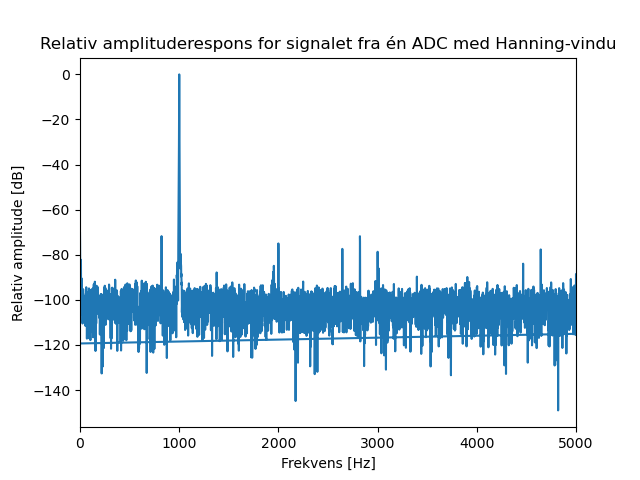
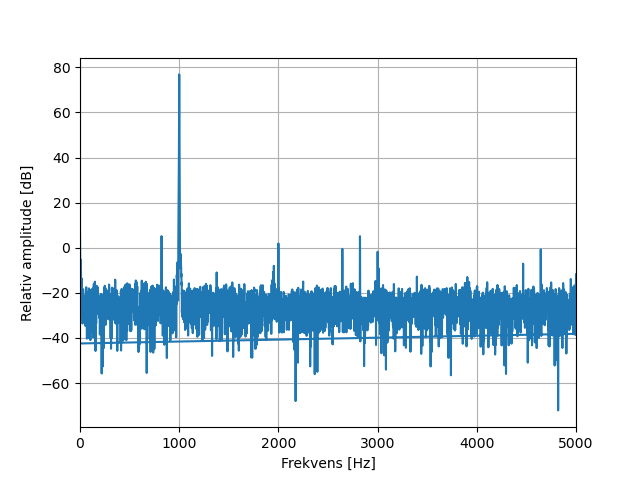
Masse arbeid torsdag 15.feb

diff --git a/Lab2/cross-correlation-processing.py b/Lab2/cross-correlation-processing.py
@@ -12,7 +12,7 @@ def return_angle(filename):
 
 
     #new time axis for the autocorrelation
-    up_factor = 8
+    up_factor = 2
     x_vals = np.linspace(-len(mic_1_ac)/2,len(mic_1_ac)/2,len(mic_1_ac)*up_factor)
     x_in = np.linspace(-len(mic_1_ac)/2,len(mic_1_ac)/2,len(mic_1_ac))
 
@@ -31,7 +31,7 @@ def return_angle(filename):
     time_axis2 = 1e3*sample_period*np.linspace(-len(data)/2,len(data)/2,len(crosscorr_2_1))
 
     #slice cross-correlation to only look at the peaks around 0
-    slice = 40
+    slice = 15
     crosscorr_2_1 = crosscorr_2_1[int(len(crosscorr_2_1)/2)-slice:int(len(crosscorr_2_1)/2)+slice]
     crosscorr_3_1 = crosscorr_3_1[int(len(crosscorr_3_1)/2)-slice:int(len(crosscorr_3_1)/2)+slice]
     crosscorr_3_2 = crosscorr_3_2[int(len(crosscorr_3_2)/2)-slice:int(len(crosscorr_3_2)/2)+slice]
@@ -41,34 +41,34 @@ def return_angle(filename):
     peaks3_1, _ = find_peaks(crosscorr_3_1)
     peaks3_2, _ = find_peaks(crosscorr_3_2)
 
-    # plt.plot(time_axis2,crosscorr_2_1)
-    # plt.plot(time_axis2[peaks2_1],crosscorr_2_1[peaks2_1],'ro')
-    # plt.show()
+    plt.plot(time_axis2,crosscorr_2_1)
+    plt.plot(time_axis2[peaks2_1],crosscorr_2_1[peaks2_1],'ro')
+    plt.show()
 
-    # fig, ax = plt.subplots(3,1)
-    # ax[0].plot(time_axis2,crosscorr_2_1)
-    # ax[0].plot(time_axis2[peaks2_1],crosscorr_2_1[peaks2_1],'ro')
-    # ax[0].set_title('Cross-correlation between Mic 2 and Mic 1')
-    # ax[0].set_xlabel('Time [ms]')
-    # ax[0].set_ylabel('Amplitude')
-    # ax[0].set_xlim([-slice*sample_period*1e3,slice*sample_period*1e3])
+    fig, ax = plt.subplots(3,1)
+    ax[0].plot(time_axis2,crosscorr_2_1)
+    ax[0].plot(time_axis2[peaks2_1],crosscorr_2_1[peaks2_1],'ro')
+    ax[0].set_title('Cross-correlation between Mic 2 and Mic 1')
+    ax[0].set_xlabel('Time [ms]')
+    ax[0].set_ylabel('Amplitude')
+    ax[0].set_xlim([-slice*sample_period*1e3,slice*sample_period*1e3])
 
-    # ax[1].plot(time_axis2,crosscorr_3_1)
-    # ax[1].plot(time_axis2[peaks3_1],crosscorr_3_1[peaks3_1],'ro')
-    # ax[1].set_title('Cross-correlation between Mic 3 and Mic 1')
-    # ax[1].set_xlabel('Time [ms]')
-    # ax[1].set_ylabel('Amplitude')
-    # ax[1].set_xlim([-slice*sample_period*1e3,slice*sample_period*1e3])
+    ax[1].plot(time_axis2,crosscorr_3_1)
+    ax[1].plot(time_axis2[peaks3_1],crosscorr_3_1[peaks3_1],'ro')
+    ax[1].set_title('Cross-correlation between Mic 3 and Mic 1')
+    ax[1].set_xlabel('Time [ms]')
+    ax[1].set_ylabel('Amplitude')
+    ax[1].set_xlim([-slice*sample_period*1e3,slice*sample_period*1e3])
 
-    # ax[2].plot(time_axis2,crosscorr_3_2)
-    # ax[2].plot(time_axis2[peaks3_2],crosscorr_3_2[peaks3_2],'ro')
-    # ax[2].set_title('Cross-correlation between Mic 3 and Mic 2')
-    # ax[2].set_xlabel('Time [ms]')
-    # ax[2].set_ylabel('Amplitude')
-    # ax[2].set_xlim([-slice*sample_period*1e3,slice*sample_period*1e3])
+    ax[2].plot(time_axis2,crosscorr_3_2)
+    ax[2].plot(time_axis2[peaks3_2],crosscorr_3_2[peaks3_2],'ro')
+    ax[2].set_title('Cross-correlation between Mic 3 and Mic 2')
+    ax[2].set_xlabel('Time [ms]')
+    ax[2].set_ylabel('Amplitude')
+    ax[2].set_xlim([-slice*sample_period*1e3,slice*sample_period*1e3])
 
-    # plt.tight_layout()
-    # plt.show()
+    plt.tight_layout()
+    plt.show()
 
     #find values of the peaks
     time_2_1 = time_axis2[peaks2_1]
@@ -95,21 +95,21 @@ def return_angle(filename):
 
 angles = []
 angles.append(return_angle('Lab2/theta-measurements/a180out-2024-01-08-10.00.29.bin'))
-# angles.append(return_angle('Lab2/theta-measurements/a180out-2024-01-08-10.00.25.bin'))
-# angles.append(return_angle('Lab2/theta-measurements/a180out-2024-01-08-10.00.21.bin'))
-# angles.append(return_angle('Lab2/theta-measurements/a180out-2024-01-08-10.00.17.bin'))
-# angles.append(return_angle('Lab2/theta-measurements/a180out-2024-01-08-10.00.14.bin'))
-angles.append(return_angle('Lab2/theta-measurements/a150out-2024-01-08-09.58.47.bin'))
+angles.append(return_angle('Lab2/theta-measurements/a180out-2024-01-08-10.00.25.bin'))
+angles.append(return_angle('Lab2/theta-measurements/a180out-2024-01-08-10.00.21.bin'))
+angles.append(return_angle('Lab2/theta-measurements/a180out-2024-01-08-10.00.17.bin'))
+angles.append(return_angle('Lab2/theta-measurements/a180out-2024-01-08-10.00.14.bin'))
+# angles.append(return_angle('Lab2/theta-measurements/a150out-2024-01-08-09.58.47.bin'))
 # angles.append(return_angle('Lab2/theta-measurements/a150out-2024-01-08-09.58.44.bin'))
 # angles.append(return_angle('Lab2/theta-measurements/a150out-2024-01-08-09.58.40.bin'))
 # angles.append(return_angle('Lab2/theta-measurements/a150out-2024-01-08-09.58.36.bin'))
 # angles.append(return_angle('Lab2/theta-measurements/a150out-2024-01-08-09.58.33.bin'))
-angles.append(return_angle('Lab2/theta-measurements/a90out-2024-01-08-09.57.28.bin'))
+# angles.append(return_angle('Lab2/theta-measurements/a90out-2024-01-08-09.57.28.bin'))
 # angles.append(return_angle('Lab2/theta-measurements/a90out-2024-01-08-09.57.24.bin'))
 # angles.append(return_angle('Lab2/theta-measurements/a90out-2024-01-08-09.57.21.bin'))
 # angles.append(return_angle('Lab2/theta-measurements/a90out-2024-01-08-09.57.13.bin'))
 # angles.append(return_angle('Lab2/theta-measurements/a90out-2024-01-08-09.57.13.bin'))
-angles.append(return_angle('Lab2/theta-measurements/a30out-2024-01-08-09.56.26.bin'))
+# angles.append(return_angle('Lab2/theta-measurements/a30out-2024-01-08-09.56.26.bin'))
 # angles.append(return_angle('Lab2/theta-measurements/a30out-2024-01-08-09.56.22.bin'))
 # angles.append(return_angle('Lab2/theta-measurements/a30out-2024-01-08-09.56.19.bin'))
 # angles.append(return_angle('Lab2/theta-measurements/a30out-2024-01-08-09.56.16.bin'))

diff --git a/LAB1/simple-data-plotter.py b/LAB1/simple-data-plotter.py
@@ -17,18 +17,19 @@ adc_5_ac = (data[:,4] - np.mean(data[:,4]))*res_factor
 
 
 time_axis = 1e3*sample_period*np.arange(len(adc_1_ac))
-# plt.plot(time_axis,adc_1_ac, label='ADC 1')
-# plt.plot(time_axis,adc_2_ac, label='ADC 2')
-# plt.plot(time_axis,adc_3_ac, label='ADC 3')
-# plt.plot(time_axis,adc_4_ac, label='ADC 4')
-# plt.plot(time_axis,adc_5_ac, label='ADC 5')
-# plt.xlabel('Tid [ms]')
-# plt.ylabel('Spenning [V]')
+plt.plot(time_axis,adc_1_ac, label='ADC 1')
+plt.plot(time_axis,adc_2_ac, label='ADC 2')
+plt.plot(time_axis,adc_3_ac, label='ADC 3')
+plt.plot(time_axis,adc_4_ac, label='ADC 4')
+plt.plot(time_axis,adc_5_ac, label='ADC 5')
+plt.xlabel('Tid [ms]')
+plt.ylabel('Spenning [V]')
 # plt.title('Spenning som funksjon av tid for de fem ADCene')
-# plt.legend()
-# plt.xlim(20,25)
-# plt.ylim(-1.5,1.5)
-# plt.show()
+plt.legend()
+plt.grid()
+plt.xlim(20,25)
+plt.ylim(-1.5,1.5)
+plt.show()
 
 
 # print(data.shape)
@@ -46,13 +47,14 @@ Y_dB = relative_Y - np.max(relative_Y)
 
 
 # plt.yscale('log')
-# plt.plot(freqs,Y_dB)
-# plt.xlabel('Frekvens [Hz]')
-# plt.ylabel('Relativ amplitude [dB]')
+plt.plot(freqs,Y_dB)
+plt.xlabel('Frekvens [Hz]')
+plt.ylabel('Relativ amplitude [dB]')
 # plt.title('Relativ amplituderespons for signalet fra én ADC uten vindu')
-# plt.xlim(0,5000)
-# plt.ylim(-100,5)
-# plt.show()
+plt.xlim(0,5000)
+plt.ylim(-100,5)
+plt.grid()
+plt.show()
 
 
 #windowed function fft
@@ -69,19 +71,20 @@ Y_windowed_dB = rel_Y_wind - np.max(rel_Y_wind)
 # positive_Y_windowed = abs(Y_windowed)[:len(Y_windowed)//2]
 
 # plt.yscale('log')
-# plt.plot(freqs_windowed, Y_windowed_dB)
+plt.plot(freqs_windowed, rel_Y_wind)
 # plt.title('Relativ amplituderespons for signalet fra én ADC med Hanning-vindu')
-# plt.xlabel('Frekvens [Hz]')
-# plt.ylabel('Relativ amplitude [dB]')
-# plt.xlim(0,5000)
-# plt.show()
+plt.xlabel('Frekvens [Hz]')
+plt.ylabel('Relativ amplitude [dB]')
+plt.xlim(0,5000)
+plt.grid()
+plt.show()
 
 #Power plot
 power = abs(Y_windowed)**2
 rel_pow = 10*np.log10(power)
 
 plt.plot(freqs_windowed,power)
-plt.title('Effektspekter for signalet fra én ADC med Hanning-vindu')
+# plt.title('Effektspekter for signalet fra én ADC med Hanning-vindu')
 plt.xlabel('Frekvens [Hz]')
 plt.ylabel('Effekt [V^2]')
 plt.xlim(0,5000)

diff --git a/LAB1/plotter.py b/LAB1/plotter.py
@@ -350,7 +350,38 @@ def scopeGraph(dataList, datalabel,col, col2=-1):
 #phase(dataList, dataLabel,2)
 plt.rcParams.update({'font.size': 16})
 
+#Plotting theoretical bode diagram from the frequency response of the filter.
+def theoretical_bode_plot(R,C,L):
+  freqs = np.linspace(0.1,10000,100000)
+  R_2 = 6.6+11
+  L = 403e-3
+  # C_1 = 520e-6
+  C_2 = 470.1e-6
+  def freq_resp(R,C,L,freqs):
+    return np.abs(1/(1-(2*np.pi*freqs)**2*C*L+1j*(2*np.pi*freqs)*R*C))
 
+  #cut-off frequency
+  w_c = np.sqrt((np.sqrt(C_2**2 *R_2**4 - 4*C_2*L *R_2**2 + 8*L**2) - C_2* R_2**2 + 2* L)/(C_2* L**2))/np.sqrt(2)
+  f_c = w_c/(2*np.pi)
+  amp_resp = abs(freq_resp(R,C,L,freqs))
+
+  fig, ax = plt.subplots(1,figsize=(10,10))
+  ax.set_xscale('log')
+  ax.plot(freqs,20*np.log10(amp_resp))
+  #-3dB line
+  print(f_c)
+  ax.axhline(y=-3,color='red',linestyle='--')
+  #cut-off frequency
+  ax.axvline(x=f_c,color='red',linestyle='--',label=f'f_c = {f_c:.2f} Hz')
+  ax.set_title(f"Frekvensrespons av pi-filteret")
+  ax.set_xlabel("Frekvens [Hz]")
+  ax.set_ylabel("Relativ amplitude [dB]")
+  ax.legend()
+  ax.grid()
+  plt.show()
+  fig.savefig('bode_theoretical.png')
+
+theoretical_bode_plot(15,470.1e-6,403e-3)
 
 #bodefiles = ["bode/3V3filter_bode_v1.csv", "bode/3V3filter_bode_v2_11ohm_series.csv","bode/3V3filter_bode_v2_17ohm_series.csv","bode\3V3filter_bode_v2_33ohm_series.csv","bode/3V3filter_bode_v2_100ohm_series.csv","bode/3V3filter_bode_v2.csv"]
 #bodefiles = ["bode/3V3filter_bode_v1.csv","bode/3V3filter_bode_v2_11ohm_series.csv","bode/3V3filter_bode_v2_17ohm_series.csv","bode/3V3filter_bode_v2_100ohm_series.csv","bode/3V3filter_bode_v2.csv"]
@@ -360,7 +391,7 @@ dataLabel = ["3V3filter_v1","3V3filter_v2_11ohm_series","3V3filter_v2_17ohm_seri
 
 bodeDiagram(bodefiles, dataLabel)
 
-bodefiles = ["bode\filter3V3_bode_v3_11ohm_series.csv","bode\filter3V3_bode_v4_11ohm_series.csv"]
+bodefiles = ["bode/filter3V3_bode_v3_11ohm_series.csv","bode/filter3V3_bode_v4_11ohm_series.csv"]
 dataLabel = ["filter3V3_v3_11ohm_series","filter3V3_v4_11ohm_series"]
 
 bodeDiagram(bodefiles, dataLabel)

diff --git a/Lab2/savefile.py b/Lab2/savefile.py
@@ -16,11 +16,11 @@ mic_2_ac = (data[1:,2] - np.mean(data[:,2]))*0.00081
 
 
 time_axis = 1e3*sample_period*np.arange(len(data)-1)
-# plt.plot(time_axis,mic_1_ac,label='Mic 1')
-# plt.plot(time_axis,mic_2_ac,label='Mic 2')
-# plt.plot(time_axis,mic_3_ac,label='Mic 3')
-# plt.legend()
-# plt.show()
+plt.plot(time_axis,mic_1_ac,label='Mic 1')
+plt.plot(time_axis,mic_2_ac,label='Mic 2')
+plt.plot(time_axis,mic_3_ac,label='Mic 3')
+plt.legend()
+plt.show()
 
 #new time axis for the autocorrelation
 
@@ -40,7 +40,7 @@ mic_3_interp = np.interp(x_vals,x_in,mic_3_ac)
 # plt.grid()
 # plt.show()
 
-# auto_corr_1 = np.correlate(mic_1_interp,mic_1_interp,mode='same')
+auto_corr_1 = np.correlate(mic_1_interp,mic_1_interp,mode='same')
 
 
 # plt.plot(time_axis2,auto_corr_1)

diff --git a/LAB1/freq_resp_laboppgave.py b/LAB1/freq_resp_laboppgave.py
@@ -2,18 +2,13 @@ import numpy as np
 from scipy.signal import freqs
 import matplotlib.pyplot as plt
 
-# def H_tot(w,L,C_1,C_2,R_1,R_2):
-#     return 1/(1-w**2*L*C_2+1j*w*R_2*C_2 + 1j*w*R_1*C_1 - 1j*w**3*R_1*L*C_1*C_2 -w**2*R_1*R_2*C_1*C_2)
-
-
 
 freqs = np.linspace(0.1,10000,100000)
-# R_1 = 0.2
 R_2 = 6.6+11
 L = 403e-3
 # C_1 = 520e-6
 C_2 = 470.1e-6
-# amp = abs(H_tot(omegas,L,C_1,C_2,R_1,R_2))
+
 
 amp1 = np.abs(1/(1-(2*np.pi*freqs)**2*C_2*L+1j*(2*np.pi*freqs)*R_2*C_2))
 
